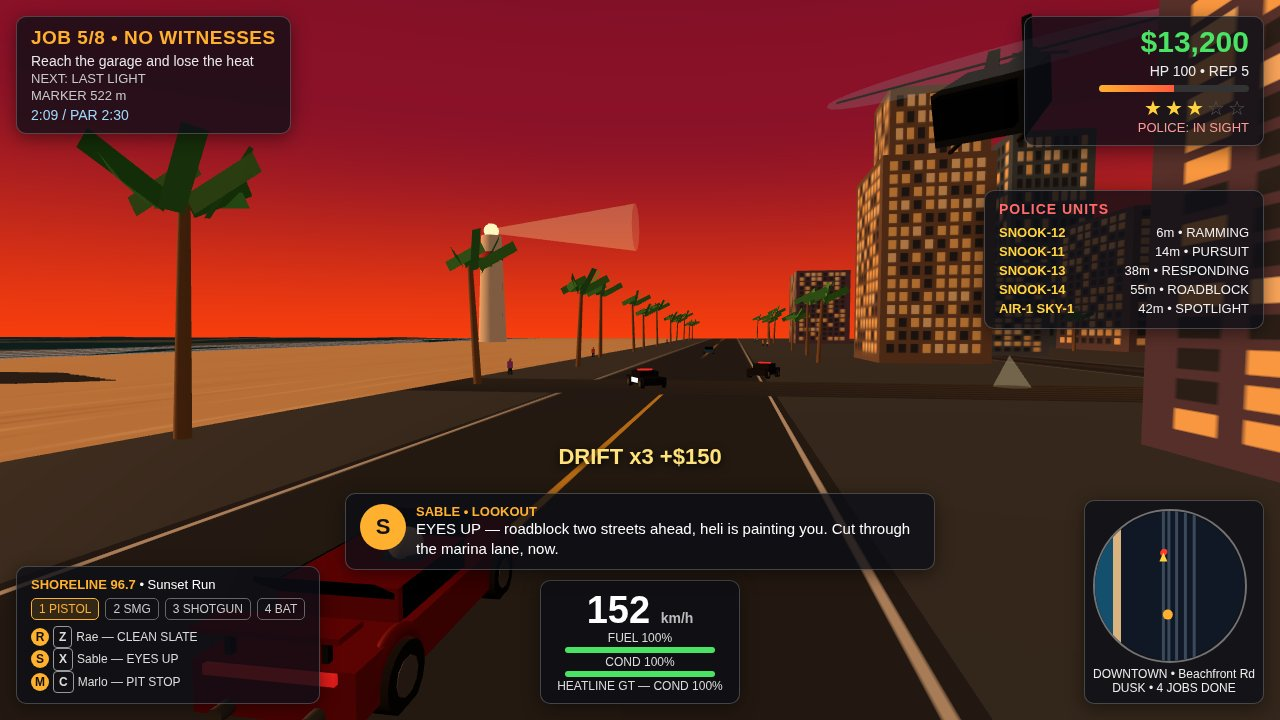
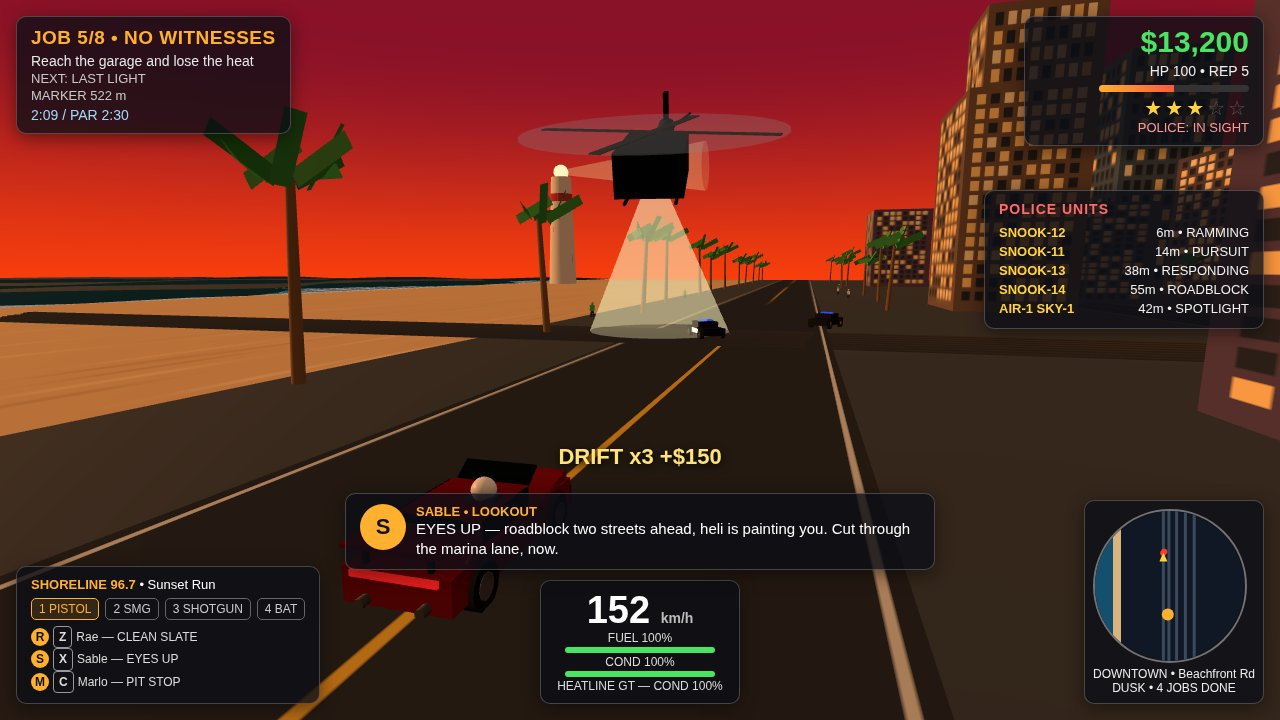
v10 fix round: heli cone/pool + rotor framing, 3/4 chase cam, mission yard staging (3 enemies, pistol+flash), shot-1 ocean framing

diff --git a/game/src/main.js b/game/src/main.js
@@ -200,12 +200,17 @@ function applyShot() {
   setMissionMarker();
   if (d.dlg) { $('dialog').classList.remove('hidden'); $('dlgPort').textContent = d.dlg.who[0]; $('dlgWho').textContent = `${d.dlg.who} • ${d.dlg.role}`; $('dlgText').textContent = d.dlg.text; }
   if (d.popup) popup(d.popup);
-  if (d.targets) { S.targetsDown = 3 - d.targets; enemies.forEach((e, i) => { if (i < S.targetsDown) { e.userData.alive = false; e.rotation.x = -Math.PI / 2; e.position.y = 0.3; e.userData.hpBar.scale.x = 0.02; } }); }
+  if (d.targets) { S.targetsDown = 3 - d.targets; enemies.forEach((e, i) => { if (i < S.targetsDown) { e.userData.alive = false; e.rotation.x = -0.9; e.userData.hpBar.scale.x = 0.08; e.userData.hpBar.material.color.setHex(0xff3b30); } }); }
   if (SHOT === 'start') {
     car.position.set(-60, 0, 60); car.rotation.y = Math.PI; heading = Math.PI; S.inCar = true; player.visible = false;
   } else if (SHOT === 'play') {
     car.position.set(-60, 0, 220); car.rotation.y = Math.PI; heading = Math.PI; S.inCar = true; player.visible = false;
     spawnPolice(); heli.visible = true;
+    // Stage 4 traffic cars ahead on the beach road / Ocean Ave so 3+ read in frame.
+    traffic[0].position.set(-58, 0, 192); traffic[0].rotation.y = Math.PI;
+    traffic[1].position.set(-63, 0, 168); traffic[1].rotation.y = Math.PI;
+    traffic[2].position.set(-57, 0, 150); traffic[2].rotation.y = Math.PI;
+    traffic[3].position.set(-57, 0, 120); traffic[3].rotation.y = Math.PI;
   } else if (SHOT === 'chase') {
     car.position.set(-60, 0, -260); car.rotation.y = Math.PI; heading = Math.PI; S.inCar = true; player.visible = false;
     spawnPolice(); heli.visible = true;
@@ -216,8 +221,16 @@ function applyShot() {
     S.inCar = false; player.visible = true; car.visible = false;
     markerDisc.visible = false; markerBeam.visible = false;
     player.position.set(140, 0, 154); playerHeading = Math.PI; player.rotation.y = playerHeading;
-    enemies[0].position.set(131, 0, 143); enemies[1].position.set(140, 0, 141); enemies[2].position.set(149, 0, 143);
+    // Hide the loose 2x2 crates for the staged frame: they occlude the yard
+    // enemies. Containers + fencing still prove the yard; live game keeps crates.
+    world.yard.traverse((o) => { if (o.isMesh && o.geometry && o.geometry.parameters && o.geometry.parameters.width === 2 && o.geometry.parameters.height === 2) o.visible = false; });
+    // Enemies in the open centre strip, spread wide, none behind a crate/container.
+    enemies[0].position.set(130, 0, 147); enemies[1].position.set(140, 0, 145); enemies[2].position.set(150, 0, 147);
     enemies.forEach((e) => { e.rotation.y = 0; });
+    // Muzzle flash held visible for the staged frame; pistol in hand.
+    player.userData.flash.material.opacity = 1;
+    // Marlo dialogue docked bottom-LEFT so it never covers the player.
+    const dlg = $('dialog'); dlg.style.left = '16px'; dlg.style.transform = 'none'; dlg.style.bottom = '150px'; dlg.style.maxWidth = '430px';
     $('cross').classList.remove('hidden');
   } else if (SHOT === 'end') {
     car.position.set(-60, 0, -440); car.rotation.y = Math.PI; heading = Math.PI; S.inCar = false;
@@ -265,8 +278,9 @@ function updateHud() {
   if (rows.length > 0) {
     $('police').classList.remove('hidden');
     $('policeRows').innerHTML = rows.map(r => `<div class="row"><span><b>${r.call}</b></span><span>${r.d}m • ${r.st}</span></div>`).join('');
-    $('policeLine').textContent = S.wanted === 0 ? 'POLICE: CLEAR' : S.wanted >= 3 ? 'POLICE: IN SIGHT' : 'POLICE: PURSUIT';
-  } else { $('police').classList.add('hidden'); $('policeLine').textContent = 'POLICE: CLEAR'; }
+  } else { $('police').classList.add('hidden'); }
+  // Police line always follows the wanted level, even with no unit rows (shot 4).
+  $('policeLine').textContent = S.wanted === 0 ? 'POLICE: CLEAR' : S.wanted >= 3 ? 'POLICE: IN SIGHT' : 'POLICE: PURSUIT';
   $('speed').innerHTML = `${Math.round(S.speedKmh)} <small>km/h</small>`;
   $('fuelPct').textContent = Math.round(S.fuel) + '%'; $('fuelFill').style.width = S.fuel + '%';
   $('condPct').textContent = Math.round(S.cond) + '%'; $('condFill').style.width = S.cond + '%';
@@ -322,13 +336,20 @@ function stepPolice(dt) {
     if (d < 4.5 && S.inCar) { S.cond = Math.max(30, S.cond - 0.4); car.position.x += Math.sin(p.userData.heading) * 0.4; }
   }
   if (heli.visible) {
-    const a = S.playT * 0.22 + (shotDef ? -1.05 : 0);
-    const hy = shotDef ? 20 : 42;
-    heli.position.set(tgt.x + Math.cos(a) * 42, hy, tgt.z + Math.sin(a) * 42);
+    // Staged shots: heli pinned over the road ahead of the car, low enough
+    // that the full rotor disc stays inside the frame, cone landing on the road.
+    const ho = shotDef && shotDef.heliOff;
+    const a = ho ? 0 : S.playT * 0.22 - 1.05;
+    const hy = ho ? ho.dy : 42;
+    const hx = ho ? tgt.x + ho.dx : tgt.x + Math.cos(a) * 42;
+    const hz = ho ? tgt.z + ho.dz : tgt.z + Math.sin(a) * 42;
+    heli.position.set(hx, hy, hz);
     heli.lookAt(tgt.x, 0, tgt.z);
     heli.userData.rotor.rotation.y += dt * 22;
     heli.userData.tailRotor.rotation.z += dt * 30;
+    // Cone spans exactly heli -> ground: apex just under the heli, base on the road.
     heli.userData.cone.scale.y = hy / 42;
+    heli.userData.cone.position.y = -hy / 2;
     heli.userData.pool.position.y = -hy + 0.5;
   }
 }
@@ -345,6 +366,7 @@ function stepWorld(dt, t) {
   markerDisc.scale.setScalar(1 + Math.sin(t * 3) * 0.12);
   markerBeam.material.opacity = 0.24 + Math.sin(t * 3) * 0.08;
   for (const tr of traffic) {
+    if (shotDef) continue; // staged frames: traffic holds its staged positions
     tr.position.z += tr.userData.dir * tr.userData.speed * dt;
     if (tr.position.z > 570) tr.position.z = -570; if (tr.position.z < -570) tr.position.z = 570;
   }
@@ -367,7 +389,7 @@ function stepWorld(dt, t) {
     const d = dist2d(e.position, player.position);
     if (d < 30 && d > 3) { const a = Math.atan2(player.position.x - e.position.x, player.position.z - e.position.z); e.position.x += Math.sin(a) * 1.6 * dt; e.position.z += Math.cos(a) * 1.6 * dt; e.rotation.y = a; }
   }
-  player.userData.flash.material.opacity = Math.max(0, player.userData.flash.material.opacity - dt * 6);
+  if (!shotDef) player.userData.flash.material.opacity = Math.max(0, player.userData.flash.material.opacity - dt * 6);
 }
 function stepDrive(dt) {
   if (!S.started || S.paused) return;
@@ -458,25 +480,33 @@ function stepCamera(dt) {
   const base = S.inCar ? heading : playerHeading;
   let off, look;
   if (SHOT === 'start') {
-    // WIDE HIGH establishing: whole beachfront, ferris wheel framed.
-    camera.position.set(-190, 55, 30);
-    camera.lookAt(-60, 4, 90); return;
+    // HIGH over the beach looking south-west along the coast: ocean + sunset
+    // over the water on the left, ferris wheel + hero car on the boardwalk.
+    // Closer/lower than v10 so the hero car reads instead of being a speck.
+    camera.position.set(-45, 28, -5);
+    camera.lookAt(-105, 2, 95); return;
   }
   if (SHOT === 'chase') {
-    off = new THREE.Vector3(Math.sin(base + 0.55) * -9.5, 4.6, Math.cos(base + 0.55) * -9.5);
-    camera.position.copy(tgt).add(off); camera.lookAt(tgt.x, 3, tgt.z - 24); return;
+    // WIDER + HIGHER pursuit cam, look point close behind the car so the hero
+    // car sits fully inside the frame instead of half-cut at the bottom edge.
+    off = new THREE.Vector3(Math.sin(base + 0.55) * -11.5, 5.6, Math.cos(base + 0.55) * -11.5);
+    camera.position.copy(tgt).add(off); camera.lookAt(tgt.x, 2.2, tgt.z - 12); return;
   }
   if (SHOT === 'mission') {
-    camera.position.set(138.5, 4.2, 161.5);
-    camera.lookAt(140, 1.2, 143); return;
+    // HIGH STEEP on-foot cam from inside the yard, above the container ring:
+    // sight lines to all 3 enemies pass OVER the low containers (tops 2.6/5.2).
+    // Pulled back to z=166 so the player (z=154) stays inside the frame.
+    camera.position.set(140, 8, 166);
+    camera.lookAt(140, 1.2, 146); return;
   }
   if (SHOT === 'end') {
     camera.position.set(-46, 4.2, -420);
     camera.lookAt(-95, 6, -462); return;
   }
-  // Default low rear 3/4 chase cam: 6.5 m behind, 2.7 m up, 2.3 m to the side.
-  const side = 2.3;
-  off = new THREE.Vector3(-Math.sin(base) * 6.5 + Math.cos(base) * side, 2.7, -Math.cos(base) * 6.5 - Math.sin(base) * side);
+  // Low rear 3/4 chase cam: 7.5 m behind, 3.1 m up, 3.6 m to the side —
+  // wide enough to read the flank, sloped hood and glass, not a flat red block.
+  const side = 3.6;
+  off = new THREE.Vector3(-Math.sin(base) * 7.5 + Math.cos(base) * side, 3.1, -Math.cos(base) * 7.5 - Math.sin(base) * side);
   const want = new THREE.Vector3().copy(tgt).add(off);
   if (!camera.userData.snapped || shotDef) camera.position.copy(want);
   else camera.position.lerp(want, 1 - Math.pow(0.001, dt));

diff --git a/game/src/vehicles.js b/game/src/vehicles.js
@@ -134,12 +134,13 @@ export function makeHeli() {
     const skid = new THREE.Mesh(new THREE.CylinderGeometry(0.09, 0.09, 5.5, 6), trimMat);
     skid.rotation.x = Math.PI / 2; skid.position.set(s * 1.2, -1.35, 0); heli.add(skid);
   }
-  // Spotlight cone + light pool on the road.
-  const coneMat = new THREE.MeshBasicMaterial({ color: 0xfff6c0, transparent: true, opacity: 0.16, side: THREE.DoubleSide, depthWrite: false });
-  const cone = new THREE.Mesh(new THREE.ConeGeometry(9, 42, 20, 1, true), coneMat);
+  // Spotlight cone + light pool on the road. Cone is narrow and bright enough
+  // to read as a volume against the sunset sky; pool lands on the road.
+  const coneMat = new THREE.MeshBasicMaterial({ color: 0xfff6c0, transparent: true, opacity: 0.34, side: THREE.DoubleSide, depthWrite: false });
+  const cone = new THREE.Mesh(new THREE.ConeGeometry(6, 42, 20, 1, true), coneMat);
   cone.position.y = -22; heli.add(cone); heli.userData.cone = cone;
-  const pool = new THREE.Mesh(new THREE.CircleGeometry(8, 24),
-    new THREE.MeshBasicMaterial({ color: 0xfff2a0, transparent: true, opacity: 0.3, depthWrite: false }));
+  const pool = new THREE.Mesh(new THREE.CircleGeometry(7, 24),
+    new THREE.MeshBasicMaterial({ color: 0xfff2a0, transparent: true, opacity: 0.5, depthWrite: false }));
   pool.rotation.x = -Math.PI / 2; pool.position.y = -41.5; heli.add(pool); heli.userData.pool = pool;
   heli.scale.set(1.6, 1.6, 1.6);
   return heli;
@@ -165,20 +166,22 @@ export function makePlayer() {
     const leg = new THREE.Mesh(new THREE.BoxGeometry(0.2, 0.8, 0.2), legs);
     leg.position.set(s * 0.16, 0.45, 0); g.add(leg); g.userData.limbs.push(leg);
   }
-  // Pistol held forward in the right hand — visible from the shot camera.
+  // Pistol held forward in the right hand — LARGE, visible from the shot camera.
   const gun = new THREE.Group();
-  const barrel = new THREE.Mesh(new THREE.BoxGeometry(0.1, 0.13, 0.62),
-    new THREE.MeshStandardMaterial({ color: 0x222222, metalness: 0.8, roughness: 0.35 }));
+  const barrel = new THREE.Mesh(new THREE.BoxGeometry(0.14, 0.18, 0.85),
+    new THREE.MeshStandardMaterial({ color: 0x1a1a1a, metalness: 0.8, roughness: 0.35 }));
   gun.add(barrel);
-  const grip = new THREE.Mesh(new THREE.BoxGeometry(0.09, 0.3, 0.13),
+  const grip = new THREE.Mesh(new THREE.BoxGeometry(0.12, 0.36, 0.16),
     new THREE.MeshStandardMaterial({ color: 0x333333 }));
-  grip.position.set(0, -0.16, -0.16); gun.add(grip);
-  gun.position.set(0.52, 1.3, 0.5); gun.rotation.x = -0.15; gun.rotation.y = -0.35; g.add(gun);
+  grip.position.set(0, -0.18, -0.2); gun.add(grip);
+  gun.position.set(0.55, 1.32, 0.55); gun.rotation.x = -0.15; gun.rotation.y = -0.35; g.add(gun);
   g.userData.gun = gun;
-  // Muzzle flash sprite (hidden until fired).
-  const flash = new THREE.Mesh(new THREE.PlaneGeometry(0.5, 0.5),
+  // Muzzle flash sprite (hidden until fired; staged shots hold it visible).
+  // Small diamond so it reads as a burst, not a flat square.
+  const flash = new THREE.Mesh(new THREE.PlaneGeometry(0.7, 0.7),
     new THREE.MeshBasicMaterial({ color: 0xffe27a, transparent: true, opacity: 0, depthWrite: false, side: THREE.DoubleSide }));
-  flash.position.set(0.42, 1.3, 0.75); g.add(flash); g.userData.flash = flash;
+  flash.rotation.z = 0.6;
+  flash.position.set(0.55, 1.35, 1.05); g.add(flash); g.userData.flash = flash;
   return g;
 }
 
@@ -195,11 +198,11 @@ export function makeEnemy() {
       new THREE.MeshStandardMaterial({ color: 0x2a2a2a }));
     leg.position.set(s * 0.15, 0.42, 0); g.add(leg);
   }
-  // Health bar above the head (sprite pair).
-  const bg = new THREE.Mesh(new THREE.PlaneGeometry(1.1, 0.12), new THREE.MeshBasicMaterial({ color: 0x330000, depthWrite: false }));
-  bg.position.y = 2.25; g.add(bg);
-  const fg = new THREE.Mesh(new THREE.PlaneGeometry(1.06, 0.08), new THREE.MeshBasicMaterial({ color: 0x3ddc5a, depthWrite: false }));
-  fg.position.set(0, 2.25, 0.01); g.add(fg); g.userData.hpBar = fg;
+  // Health bar above the head (sprite pair) — large enough to read at shot distance.
+  const bg = new THREE.Mesh(new THREE.PlaneGeometry(1.4, 0.16), new THREE.MeshBasicMaterial({ color: 0x330000, depthWrite: false }));
+  bg.position.y = 2.3; g.add(bg);
+  const fg = new THREE.Mesh(new THREE.PlaneGeometry(1.36, 0.11), new THREE.MeshBasicMaterial({ color: 0x3ddc5a, depthWrite: false }));
+  fg.position.set(0, 2.3, 0.01); g.add(fg); g.userData.hpBar = fg;
   g.userData.hp = 100;
   return g;
 }

diff --git a/game/src/config.js b/game/src/config.js
@@ -31,12 +31,12 @@ export const LOOP_TOTAL = 22450; // 19750 story + 1250 start + 450 yard bounties
 export const SHOTS = {
   start:   { job: 1, cash: 1250,  rep: 0, done: 0, wanted: 0, elapsed: 47,  par: '1:00', speed: 128, heli: false, police: [], dlg: null,
              cam: 'wide',  note: 'WIDE HIGH establishing, beachfront + ferris wheel' },
-  play:    { job: 2, cash: 3750,  rep: 1, done: 1, wanted: 0, elapsed: 72,  par: '1:30', speed: 141, heli: true,  police: [
+  play:    { job: 2, cash: 3750,  rep: 1, done: 1, wanted: 0, elapsed: 72,  par: '1:30', speed: 141, heli: true,  heliOff: { dx: -8, dy: 13, dz: -40 }, police: [
                { call: 'SNOOK-12', d: 6,  st: 'RAMMING' }, { call: 'SNOOK-11', d: 14, st: 'PURSUIT' },
                { call: 'SNOOK-13', d: 38, st: 'RESPONDING' }, { call: 'AIR-1 SKY-1', d: 42, st: 'SPOTLIGHT' }],
              dlg: { who: 'RAE', role: 'FIXER', text: 'Package is sealed and hot. Beach road, keep it above a hundred — I will talk you through the handoff.' },
              cam: 'chase', note: 'LOW rear 3/4 chase cam, beach road' },
-  chase:   { job: 5, cash: 13200, rep: 5, done: 4, wanted: 3, elapsed: 129, par: '2:30', speed: 152, heli: true,  police: [
+  chase:   { job: 5, cash: 13200, rep: 5, done: 4, wanted: 3, elapsed: 129, par: '2:30', speed: 152, heli: true,  heliOff: { dx: -6, dy: 14, dz: -38 }, police: [
                { call: 'SNOOK-12', d: 6,  st: 'RAMMING' }, { call: 'SNOOK-11', d: 14, st: 'PURSUIT' },
                { call: 'SNOOK-13', d: 38, st: 'RESPONDING' }, { call: 'SNOOK-14', d: 55, st: 'ROADBLOCK' },
                { call: 'AIR-1 SKY-1', d: 42, st: 'SPOTLIGHT' }],
